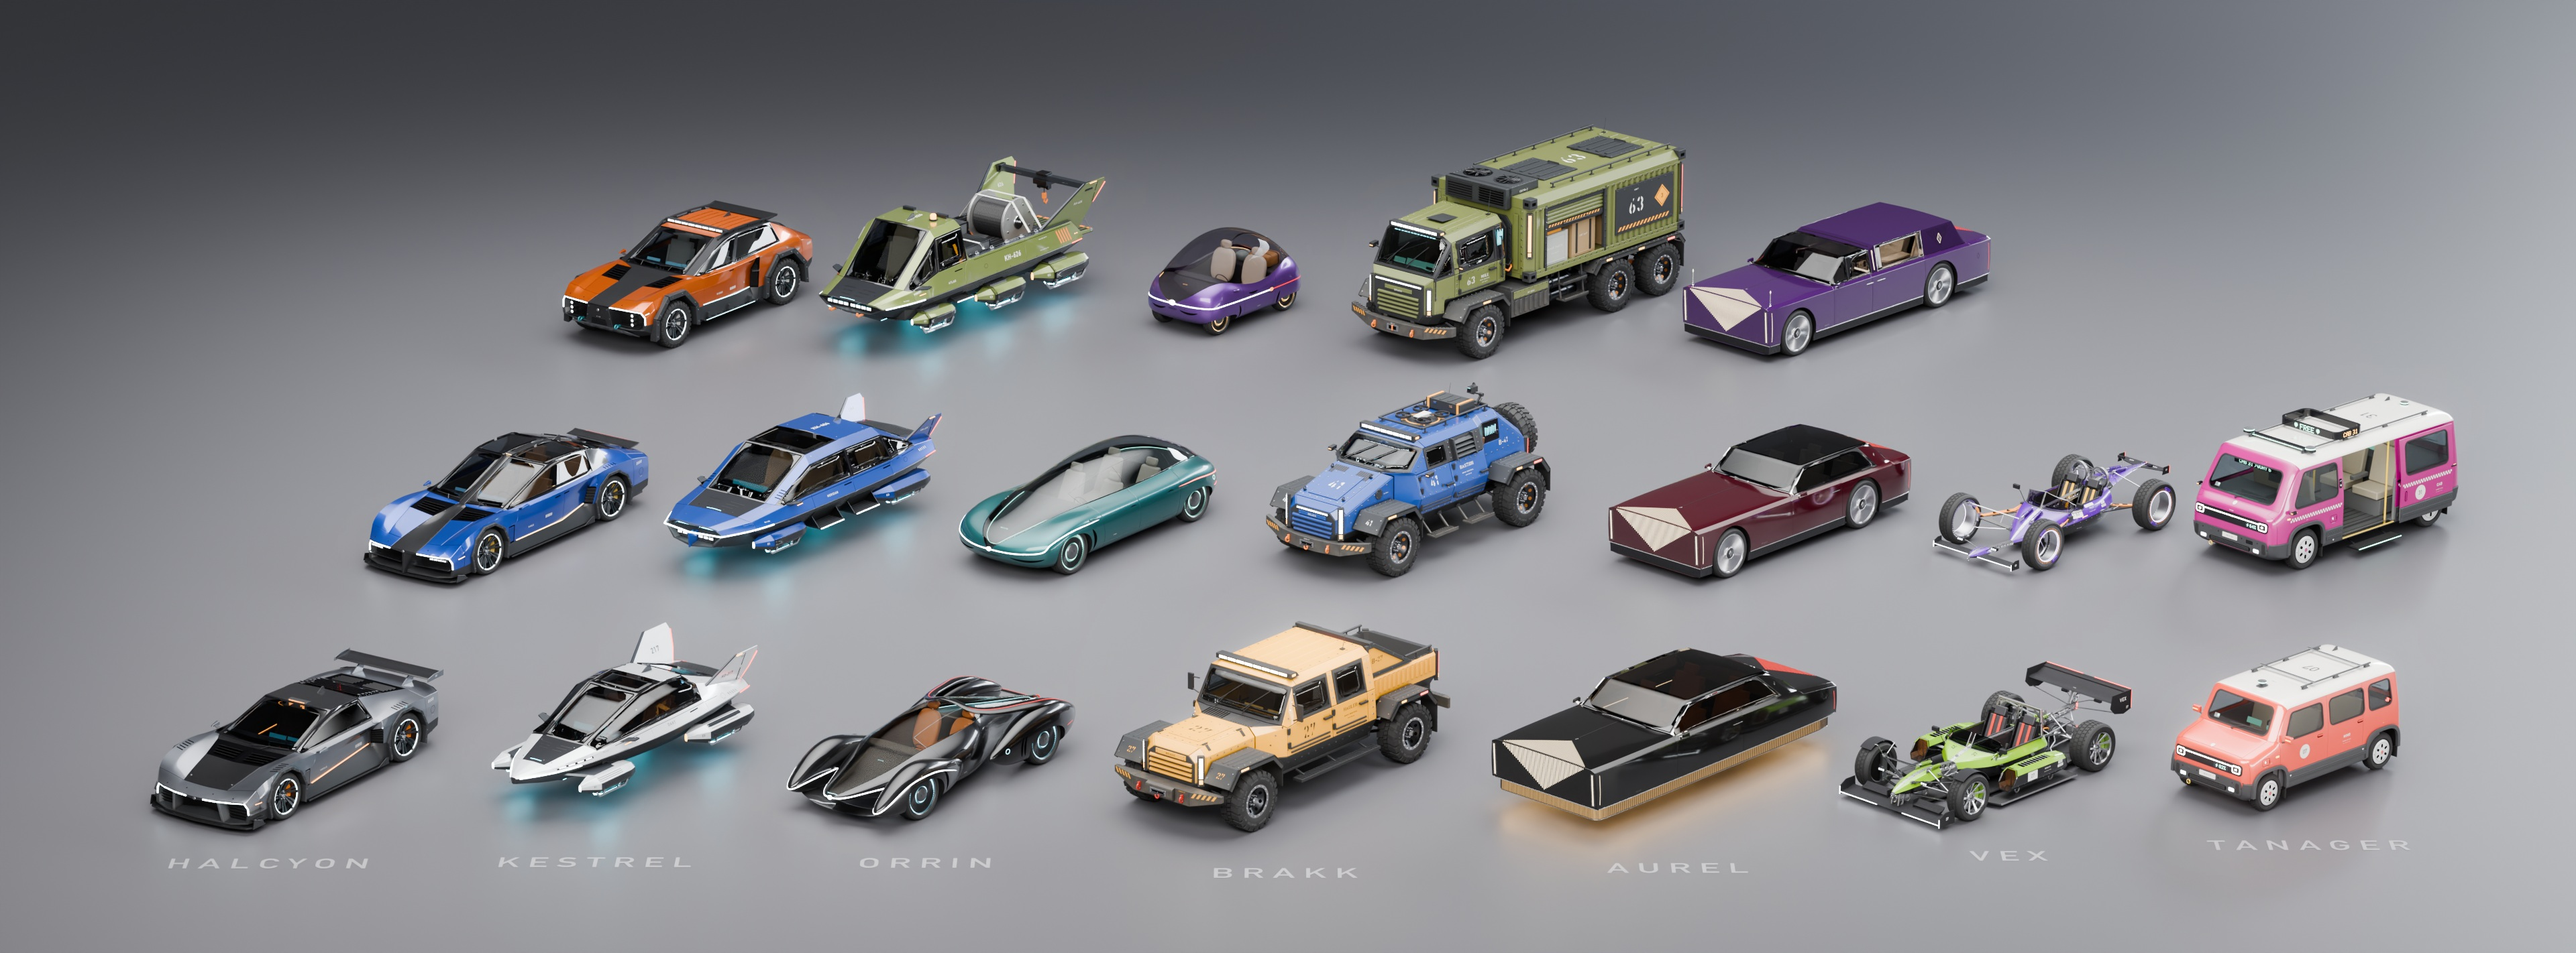
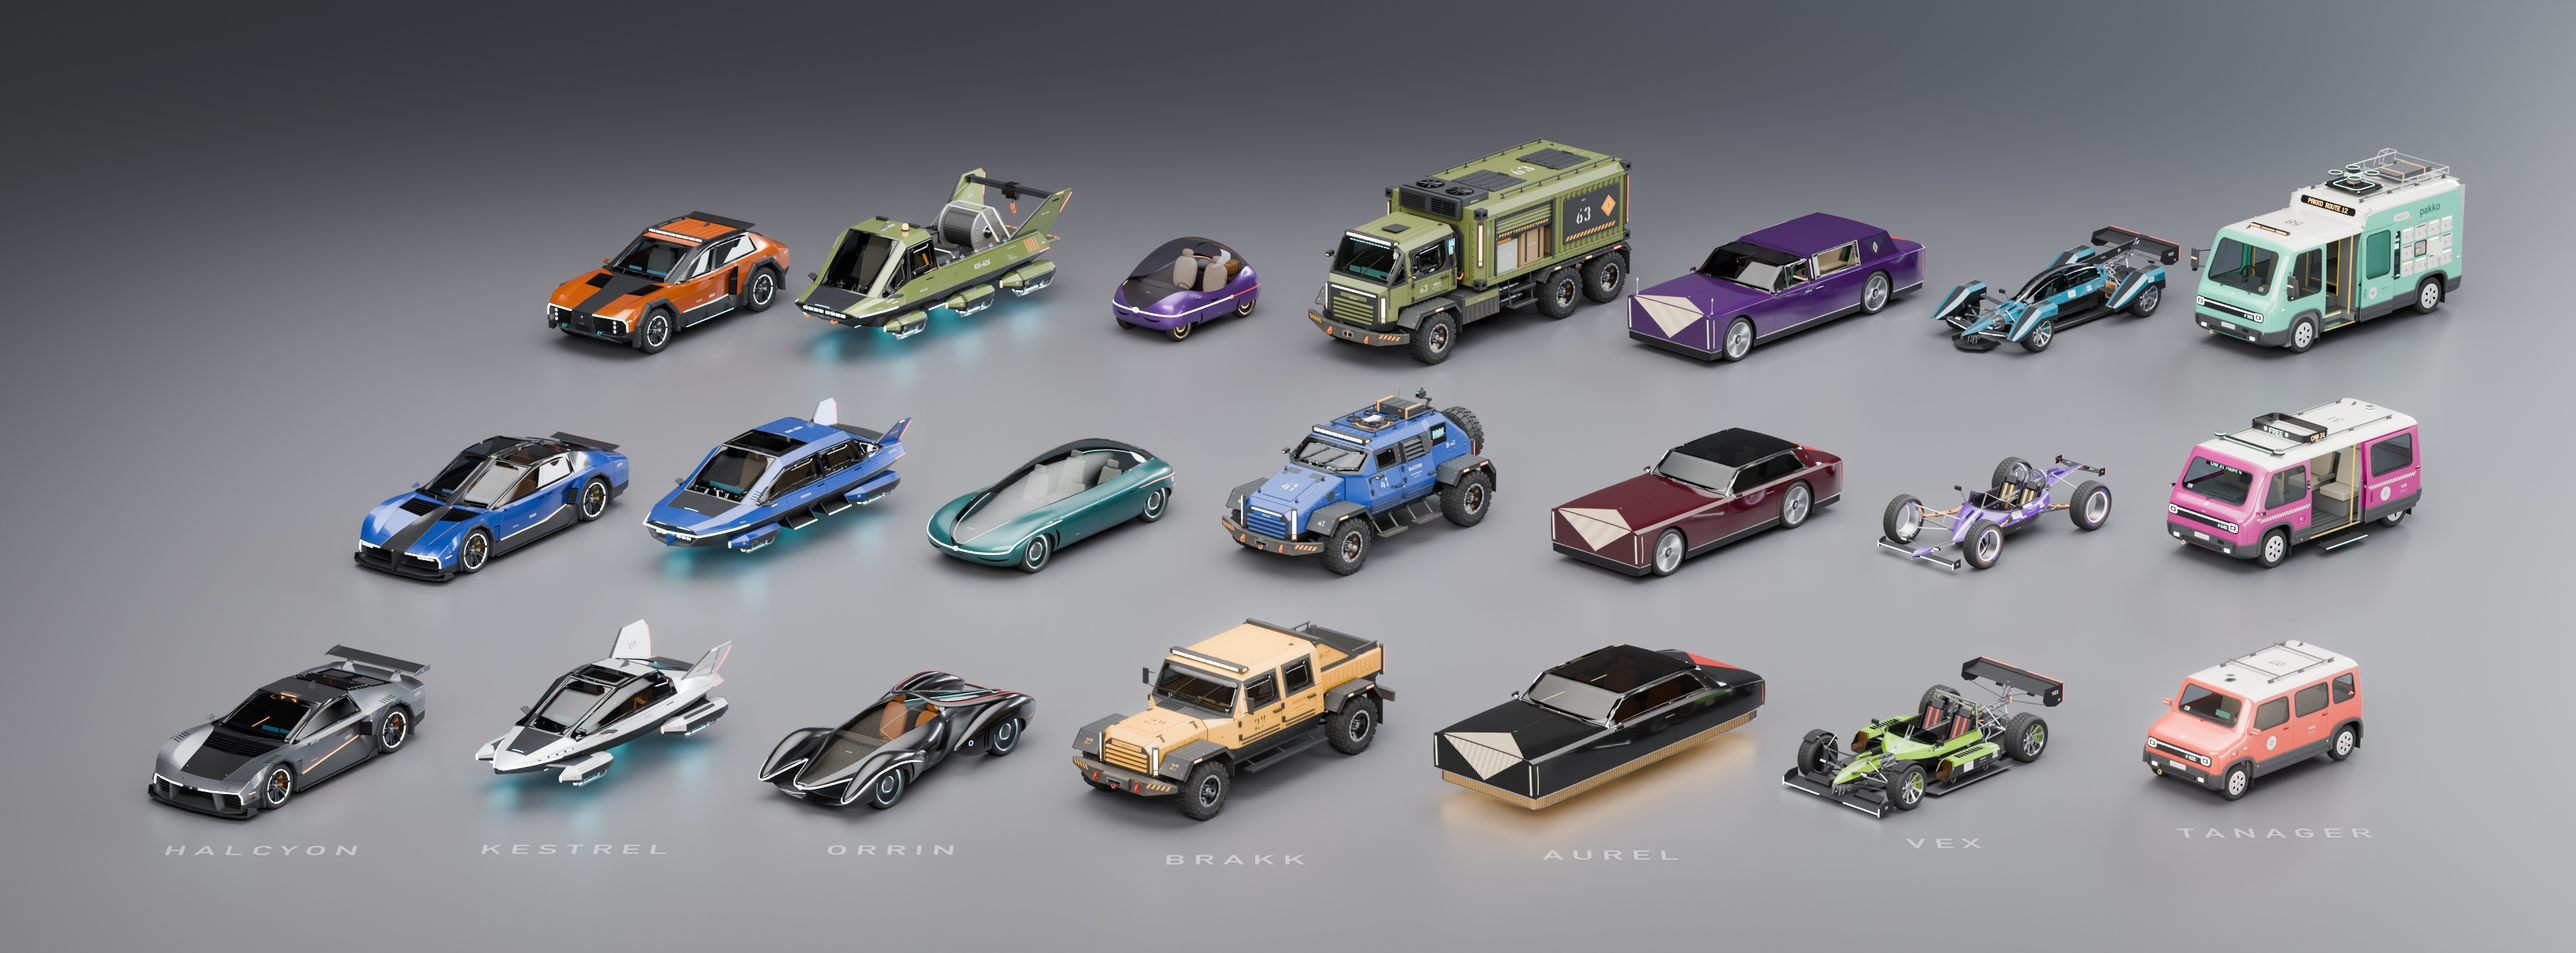
AG18: the roster of 21, its index and the line-up with every car
docs/progress/AG18/README.md lists every vehicle with its sheet; the line-up is rendered
again with all 21; the README gains a Vehicles section; the milestone log records the
kit, the roster, the line-up and what the design sessions found; scope 14.19 takes their
kit wishes as improvement 14.

Changed region(s): [[0.125, 0.1238, 0.9688, 0.6188], [0.0625, 0.6498, 0.9375, 0.9283]]

diff --git a/docs/progress/AG18/README.md b/docs/progress/AG18/README.md
@@ -1,9 +1,38 @@
 # AG18: hero vehicles
 
-Vehicles designed by hand, one Blender script each (`vehicles/cars/`), on a shared kit
-(`vehicles/carkit.py`). Brands and their design languages: `vehicles/BRANDS.md`. Scope and the
-plan for what comes next: `docs/assetgen_scope.md`, 14.19.
+Twenty-one vehicles designed by hand, one Blender script each (`vehicles/cars/`), on a shared
+kit (`vehicles/carkit.py`). Seven made-up brands, three models each; a brand is a design
+language in geometry and texture, never in color (`vehicles/BRANDS.md`). Scope and the plan
+for what comes next: `docs/assetgen_scope.md`, 14.19. Each folder holds one 4K multi-view
+sheet and the car's notes.
 
-| Brand | Model | Type | Sheet |
-|---|---|---|---|
-| Halcyon | Vanta-R | mid-engined supercar, 2 seats | [vanta_r](vanta_r) |
+![line-up](lineup.jpg)
+
+The whole roster at one scale (`vehicles/blender.sh vehicles/lineup.py`).
+
+| Brand | Model | Type | Seats | Length | Sheet |
+|---|---|---|---|---|---|
+| Halcyon | Vanta-R | mid-engined supercar | 2 | 4.69 m | [vanta_r](vanta_r/sheet.jpg) |
+| Halcyon | Sable | four-door fastback grand tourer | 4 | 5.11 m | [halcyon_sable](halcyon_sable/sheet.jpg) |
+| Halcyon | Ridge | performance crossover | 4 | 4.75 m | [halcyon_ridge](halcyon_ridge/sheet.jpg) |
+| Kestrel Aerodyne | Dart | hover coupe | 2 | 4.66 m | [kestrel_dart](kestrel_dart/sheet.jpg) |
+| Kestrel Aerodyne | Meridian | hover sedan | 4 | 5.32 m | [kestrel_meridian](kestrel_meridian/sheet.jpg) |
+| Kestrel Aerodyne | Atlas | hover hauler with a load bed | 2 | 5.91 m | [kestrel_atlas](kestrel_atlas/sheet.jpg) |
+| Orrin | Lumen | sedan under one leaf of glass | 4 | 5.03 m | [orrin_lumen](orrin_lumen/sheet.jpg) |
+| Orrin | Pebble | city pod, the dome lifts as the door | 2 | 2.82 m | [orrin_pebble](orrin_pebble/sheet.jpg) |
+| Orrin | Aria | hypercar with channels through the body | 2 | 4.74 m | [orrin_aria](orrin_aria/sheet.jpg) |
+| Brakk Industrial | Hauler | crew cab pickup, exposed wheels | 4 | 5.69 m | [brakk_hauler](brakk_hauler/sheet.jpg) |
+| Brakk Industrial | Bastion | armored utility vehicle | 4 | 5.11 m | [brakk_bastion](brakk_bastion/sheet.jpg) |
+| Brakk Industrial | Mule | six-wheel cargo van | 2 | 6.65 m | [brakk_mule](brakk_mule/sheet.jpg) |
+| Aurel | Prelate | formal coupe | 2 + 2 | 5.19 m | [aurel_prelate](aurel_prelate/sheet.jpg) |
+| Aurel | Regent | limousine | 4 | 5.92 m | [aurel_regent](aurel_regent/sheet.jpg) |
+| Aurel | Zenith | hover grand tourer on a skirt of light | 4 | 5.42 m | [aurel_zenith](aurel_zenith/sheet.jpg) |
+| Vex | Wraith | open-wheel speedster of four pods | 2 | 4.37 m | [vex_wraith](vex_wraith/sheet.jpg) |
+| Vex | Halo | roadster on four hubless ring wheels | 2 | 4.31 m | [vex_halo](vex_halo/sheet.jpg) |
+| Vex | Strix | tandem track hypercar, floating fenders | 2 | 4.97 m | [vex_strix](vex_strix/sheet.jpg) |
+| Tanager | Mino | city car | 4 | 3.43 m | [tanager_mino](tanager_mino/sheet.jpg) |
+| Tanager | Cab | driverless taxi with a sliding door | 4 | 4.55 m | [tanager_cab](tanager_cab/sheet.jpg) |
+| Tanager | Porter | parcel-locker delivery van | 2 | 5.30 m | [tanager_porter](tanager_porter/sheet.jpg) |
+
+Each car's own README lists its size, its design, its brand's cues, what its designer would
+improve and what the kit lacked for it.
